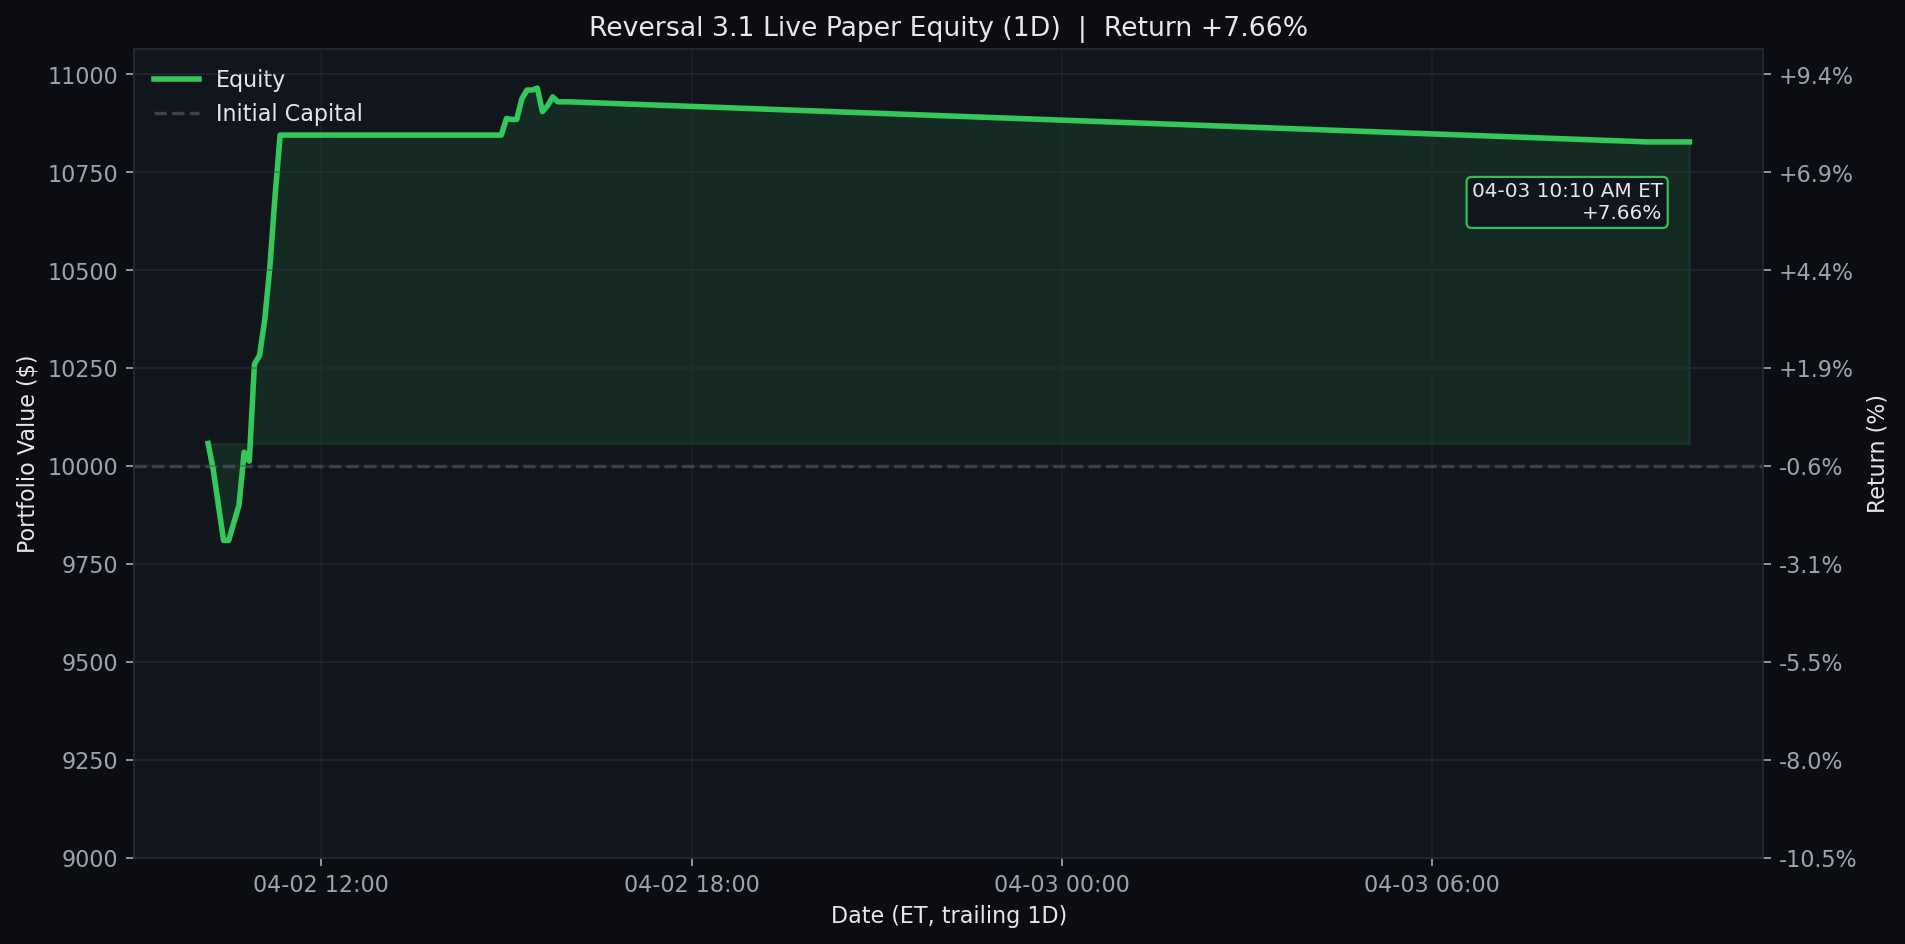
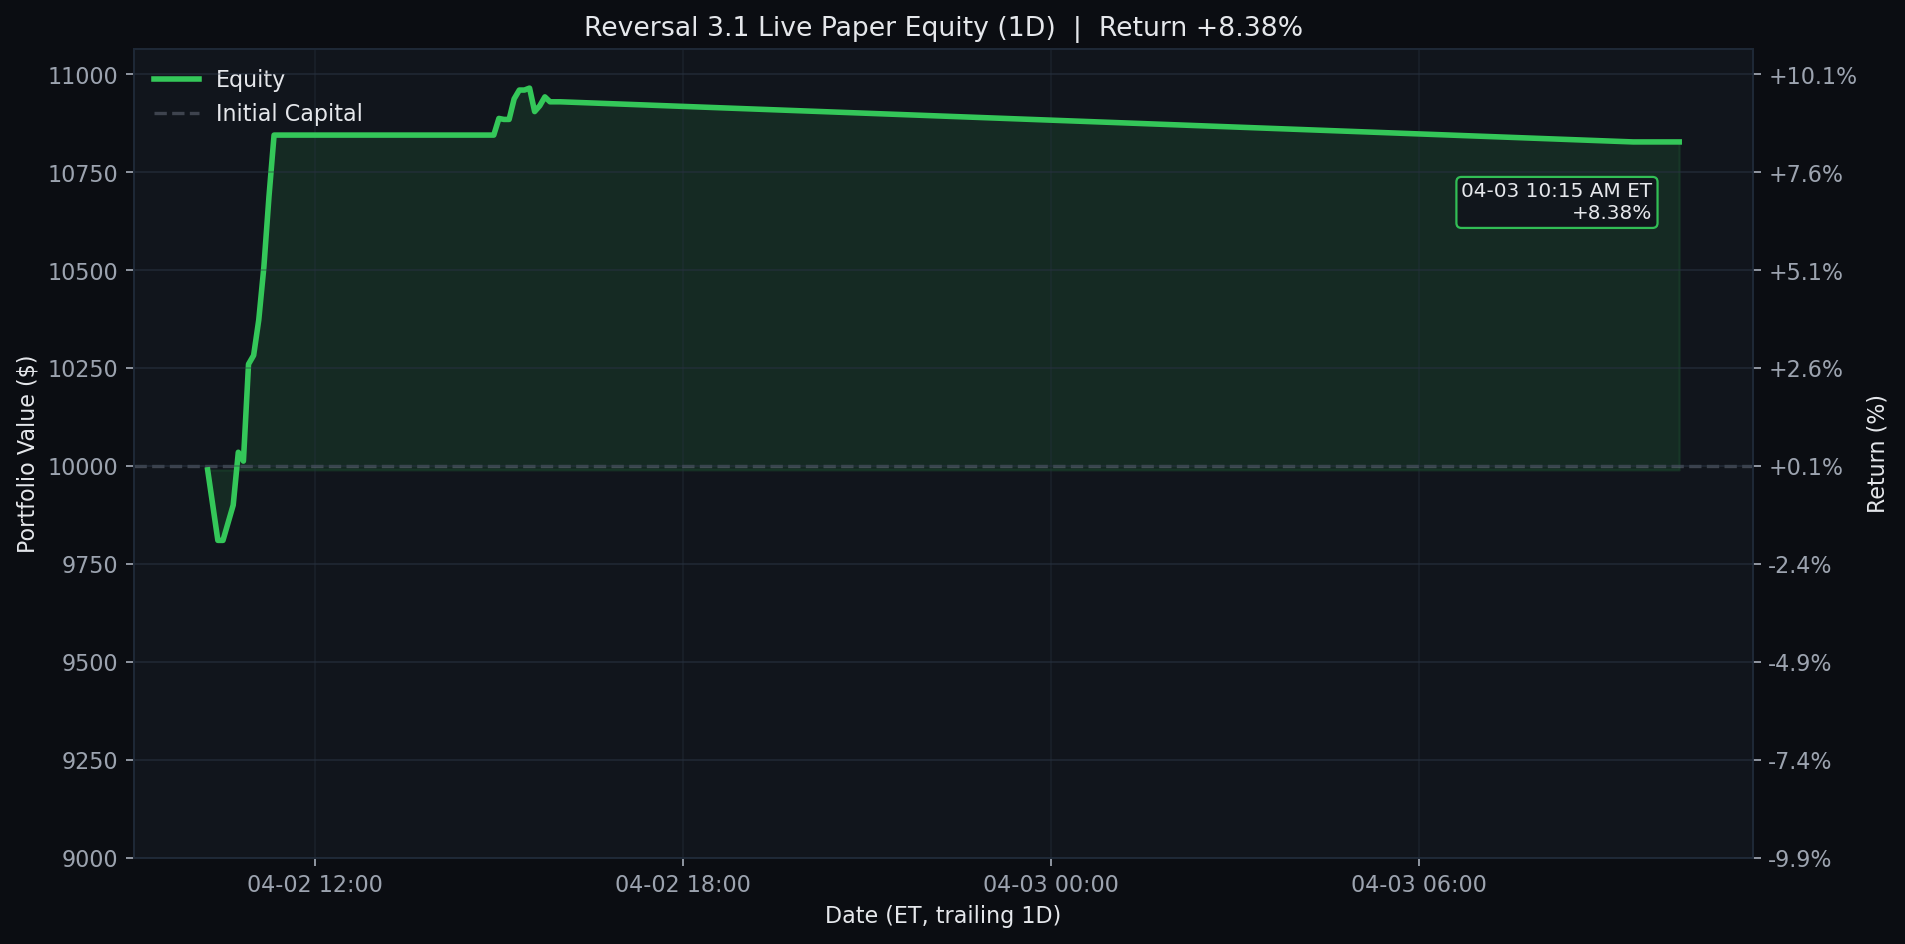
Update Reversal 3.1 live paper test 2026-04-03 10:15 ET

diff --git a/README.md b/README.md
@@ -3,10 +3,10 @@
 <!-- reversal-3.1-live:start -->
 ## Reversal 3.1 Live Paper Test
 
-- Last updated (ET): `2026-04-03 10:10:05 EDT`
+- Last updated (ET): `2026-04-03 10:15:05 EDT`
 - Equity: `$10,827.50` | Realized: `$845.00` | Unrealized: `$-17.50` | Open positions: `1`
 - Today closed trades: `0`
-- Current slot: `manage_1000`
+- Current slot: `manual_refresh`
 - Universe: `qqq_plus_leverage_etfs`
 - Chart windows: `1D / 1W / 1M` (default open panel: `1W`)
 

diff --git a/results/reversal_3_1_live/README.md b/results/reversal_3_1_live/README.md
@@ -1,7 +1,7 @@
 # Reversal 3.1 Live Paper Test
 
-Last updated (ET): `2026-04-03 10:10:05 EDT`
-Last processed slot: `manage_1000`
+Last updated (ET): `2026-04-03 10:15:05 EDT`
+Last processed slot: `manual_refresh`
 
 ## Active Configuration
 
